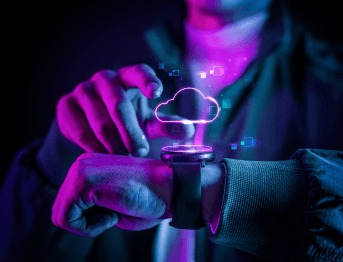
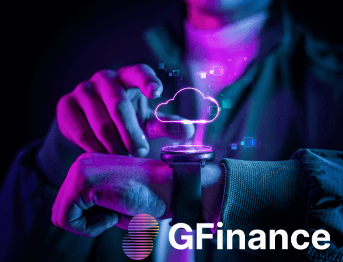
update

Changed region(s): [[0.3499, 0.7939, 0.9621, 1.0]]

diff --git a/index.html b/index.html
@@ -146,6 +146,7 @@
                               <ul>
                                  <li><a href="#Profile">Profile</a></li>
                                  <li><a href="#Recruit">Recruit</a></li>
+                                 <li><a href="#Portfolio">Portfolio</a></li>
                                  <li><a href="#Partner">Partner</a></li>
                                  <li><a href="#Contact Us">Contact Us</a></li>
                               </ul>
@@ -748,7 +749,92 @@
                </div>
             </div>
          </div>
-         <div class="pt-185"></div>
+      </section>
+      <!-- feature area end -->
+
+      <!-- portfolio area start -->
+      <section class="tp-blog-2-area p-relative pt-120" id="Portfolio">
+         <div class="tp-blog-2-shape">
+            <div class="shape-1">
+               <img src="assets/img/blog/shape-1.png" alt="">
+            </div>
+         </div>
+         <div class="container">
+            <div class="row">
+               <div class="col-lg-12">
+                  <div class="row align-items-center">
+                     <div class="col-lg-6">
+                        <div class="tp-blog-2-title-wrapper">
+                           <span class="tp-section-title__pre">
+                              Flagship <span class="title-pre-color"> Portfolio </span>
+                              <svg width="123" height="8" viewBox="0 0 123 8" fill="none"
+                                 xmlns="http://www.w3.org/2000/svg">
+                                 <path
+                                    d="M0.384401 7.82144C0.645399 4.52972 8.83029 8.38041 10.8974 7.67652C12.4321 7.1486 11.6386 7.03474 12.9749 6.19628C14.0816 4.61253 15.7519 3.89829 17.9756 4.06391C18.6125 4.48831 19.2284 4.93342 19.8444 5.38888C21.1076 6.09277 22.1621 6.51717 23.6028 6.13417C24.8973 5.79258 25.5237 4.79885 26.6095 4.18812C30.8481 1.80732 31.3701 2.90456 34.5855 4.58147C36.0993 5.36817 37.634 6.48612 39.461 6.08242C40.1604 5.92715 40.2127 5.67871 40.672 5.54415C42.1023 4.10531 43.9606 3.52564 46.2469 3.80512C47.0612 4.28129 47.8651 4.75745 48.669 5.25431C50.9866 6.22733 54.5049 6.23769 54.6615 3.08053C54.3065 3.22545 53.962 3.37037 53.6175 3.51529C55.622 5.75117 58.6078 6.59998 61.5205 5.5752C64.8091 4.41585 63.8277 3.02877 67.1685 4.35374C68.6614 4.94377 70.2587 5.14045 71.856 4.96447C73.6412 4.7678 75.1028 3.27721 76.6271 3.07018C79.0491 2.73894 81.3354 4.89201 84.2482 4.15707C85.3235 3.88793 86.9417 2.27313 87.7978 2.21102C88.6329 2.14891 89.9484 3.68091 90.8358 4.14672C93.3936 5.51309 96.5882 5.75117 99.3234 4.7471C101.902 3.80512 100.858 3.60845 103.124 4.30199C104.366 4.67464 105.253 5.34747 106.652 5.45099C109.628 5.65801 112.175 4.26058 113.678 1.77626C113.25 1.77626 112.822 1.77626 112.384 1.77626C114.722 5.49239 119.587 6.10312 122.771 3.05983C123.471 2.39734 122.406 1.34151 121.707 2.00399C119.316 4.29164 115.516 3.95004 113.678 1.03097C113.386 0.554807 112.687 0.544455 112.384 1.03097C110.223 4.62288 105.159 4.84026 102.549 1.7038C102.278 1.38291 101.777 1.46572 101.495 1.7038C97.6113 4.99553 91.8171 4.46761 88.6747 0.368483C88.4242 0.0372403 87.85 -0.190489 87.5159 0.223564C84.9685 3.37037 80.7717 3.86723 77.6606 1.10343C77.3787 0.854995 76.9507 0.823941 76.6584 1.10343C73.422 4.26058 68.6823 4.52972 65.1432 1.63134C64.83 1.37256 64.3706 1.38291 64.1409 1.75556C61.9799 5.40958 57.2297 5.74082 54.4631 2.65613C54.0873 2.24207 53.44 2.59402 53.4191 3.09088C53.2103 7.04509 45.6727 1.72451 43.8979 1.92118C40.4841 2.30418 40.2127 5.74082 35.7026 3.82583C33.4894 2.88386 31.8085 0.989563 29.1777 1.39326C26.9226 1.74521 25.9622 3.86723 23.9682 4.63323C20.4603 5.9789 19.2702 2.13856 16.2531 2.33524C11.2941 2.66648 14.1442 7.41774 6.43955 5.75117C4.22629 5.27501 -0.221114 3.93969 0.00856432 7.82144C0.0190042 8.05952 0.363521 8.05952 0.384401 7.82144Z"
+                                    fill="currentColor" />
+                              </svg>
+                           </span>
+                           <h3 class="tp-section-title">GFinance Protocol
+                              <span class="title-left-shape">
+                                 <svg width="194" height="5" viewBox="0 0 194 5" fill="none"
+                                    xmlns="http://www.w3.org/2000/svg">
+                                    <path
+                                       d="M193.649 4.22307C129.517 2.55338 65.7543 2.288 1.66891 4.99709C-0.571625 5.09661 -0.540924 2.60867 1.66891 2.48703C65.34 -0.962917 130.116 -1.06243 193.649 3.70336C194.109 3.73653 194.125 4.23412 193.649 4.22307Z"
+                                       fill="#05DAC3" />
+                                 </svg>
+                              </span>
+                           </h3>
+                        </div>
+                     </div>
+                     <div class="col-lg-6">
+                        <div class="tp-blog-text justify-content-start justify-content-lg-end d-flex">
+                           <p>The GFinance protocol has created a globally unique and irreplaceable <br> stable asset by
+                              minting a physical gold-backed stablecoin.</p>
+                        </div>
+                     </div>
+                  </div>
+               </div>
+
+               <div class="col-lg-4 col-md-6">
+                  <div class="tp-blog-2-wrapper mb-30">
+                     <div class="tp-blog-2-thumb">
+                        <a href="javascript:void(0);"><img src="assets/img/blog/img-4.png" alt=""></a>
+                     </div>
+                     <div class="tp-blog-2-content">
+                        <h3 class="tp-blog-2-title"><a href="javascript:void(0);">USDG is a stablecoin anchored to real
+                              gold and is irreplaceable.</a>
+                        </h3>
+                     </div>
+                  </div>
+               </div>
+               <div class="col-lg-4 col-md-6">
+                  <div class="tp-blog-2-wrapper mb-30">
+                     <div class="tp-blog-2-thumb">
+                        <a href="javascript:void(0);"><img src="assets/img/blog/img-5.png" alt=""></a>
+                     </div>
+                     <div class="tp-blog-2-content">
+                        <h3 class="tp-blog-2-title"><a href="javascript:void(0);">USDG will effectively improve
+                              <br>
+                              international payment efficiency.</a>
+                        </h3>
+                     </div>
+                  </div>
+               </div>
+               <div class="col-lg-4 col-md-6">
+                  <div class="tp-blog-2-wrapper mb-30">
+                     <div class="tp-blog-2-thumb">
+                        <a href="javascript:void(0);"><img src="assets/img/blog/img-6.png" alt=""></a>
+                     </div>
+                     <div class="tp-blog-2-content">
+                        <h3 class="tp-blog-2-title"><a href="javascript:void(0);">Combat fiat currency inflation and
+                              increase deposit returns.</a>
+                        </h3>
+                     </div>
+                  </div>
+               </div>
+            </div>
+         </div>
+         <div class="pt-85"></div>
          <div id="Partner"></div>
          <div class="row gx-0">
             <div class="col-xl-12">
@@ -758,11 +844,11 @@
             </div>
          </div>
       </section>
-      <!-- feature area end -->
+      <!-- portfolio area end -->
 
 
 
-      <!-- brand area start -->
+      <!-- partners area start -->
       <div>
          <div class="tp-brand-3-area p-relative ">
             <div class="tp-brand-3-right-color"></div>
@@ -928,7 +1014,7 @@
             </div>
          </div>
       </div>
-      <!-- brand area end -->
+      <!-- partners area end -->
       <div class="pt-100"></div>
       <div id="Contact Us"></div>
       <!-- contact area start -->

diff --git a/assets/js/main.js b/assets/js/main.js
@@ -1176,7 +1176,7 @@
 				slidesPerView: 2,
 			},
 			'0': {
-				slidesPerView: 1,
+				slidesPerView: 2,
 			},
 		},
 	});
